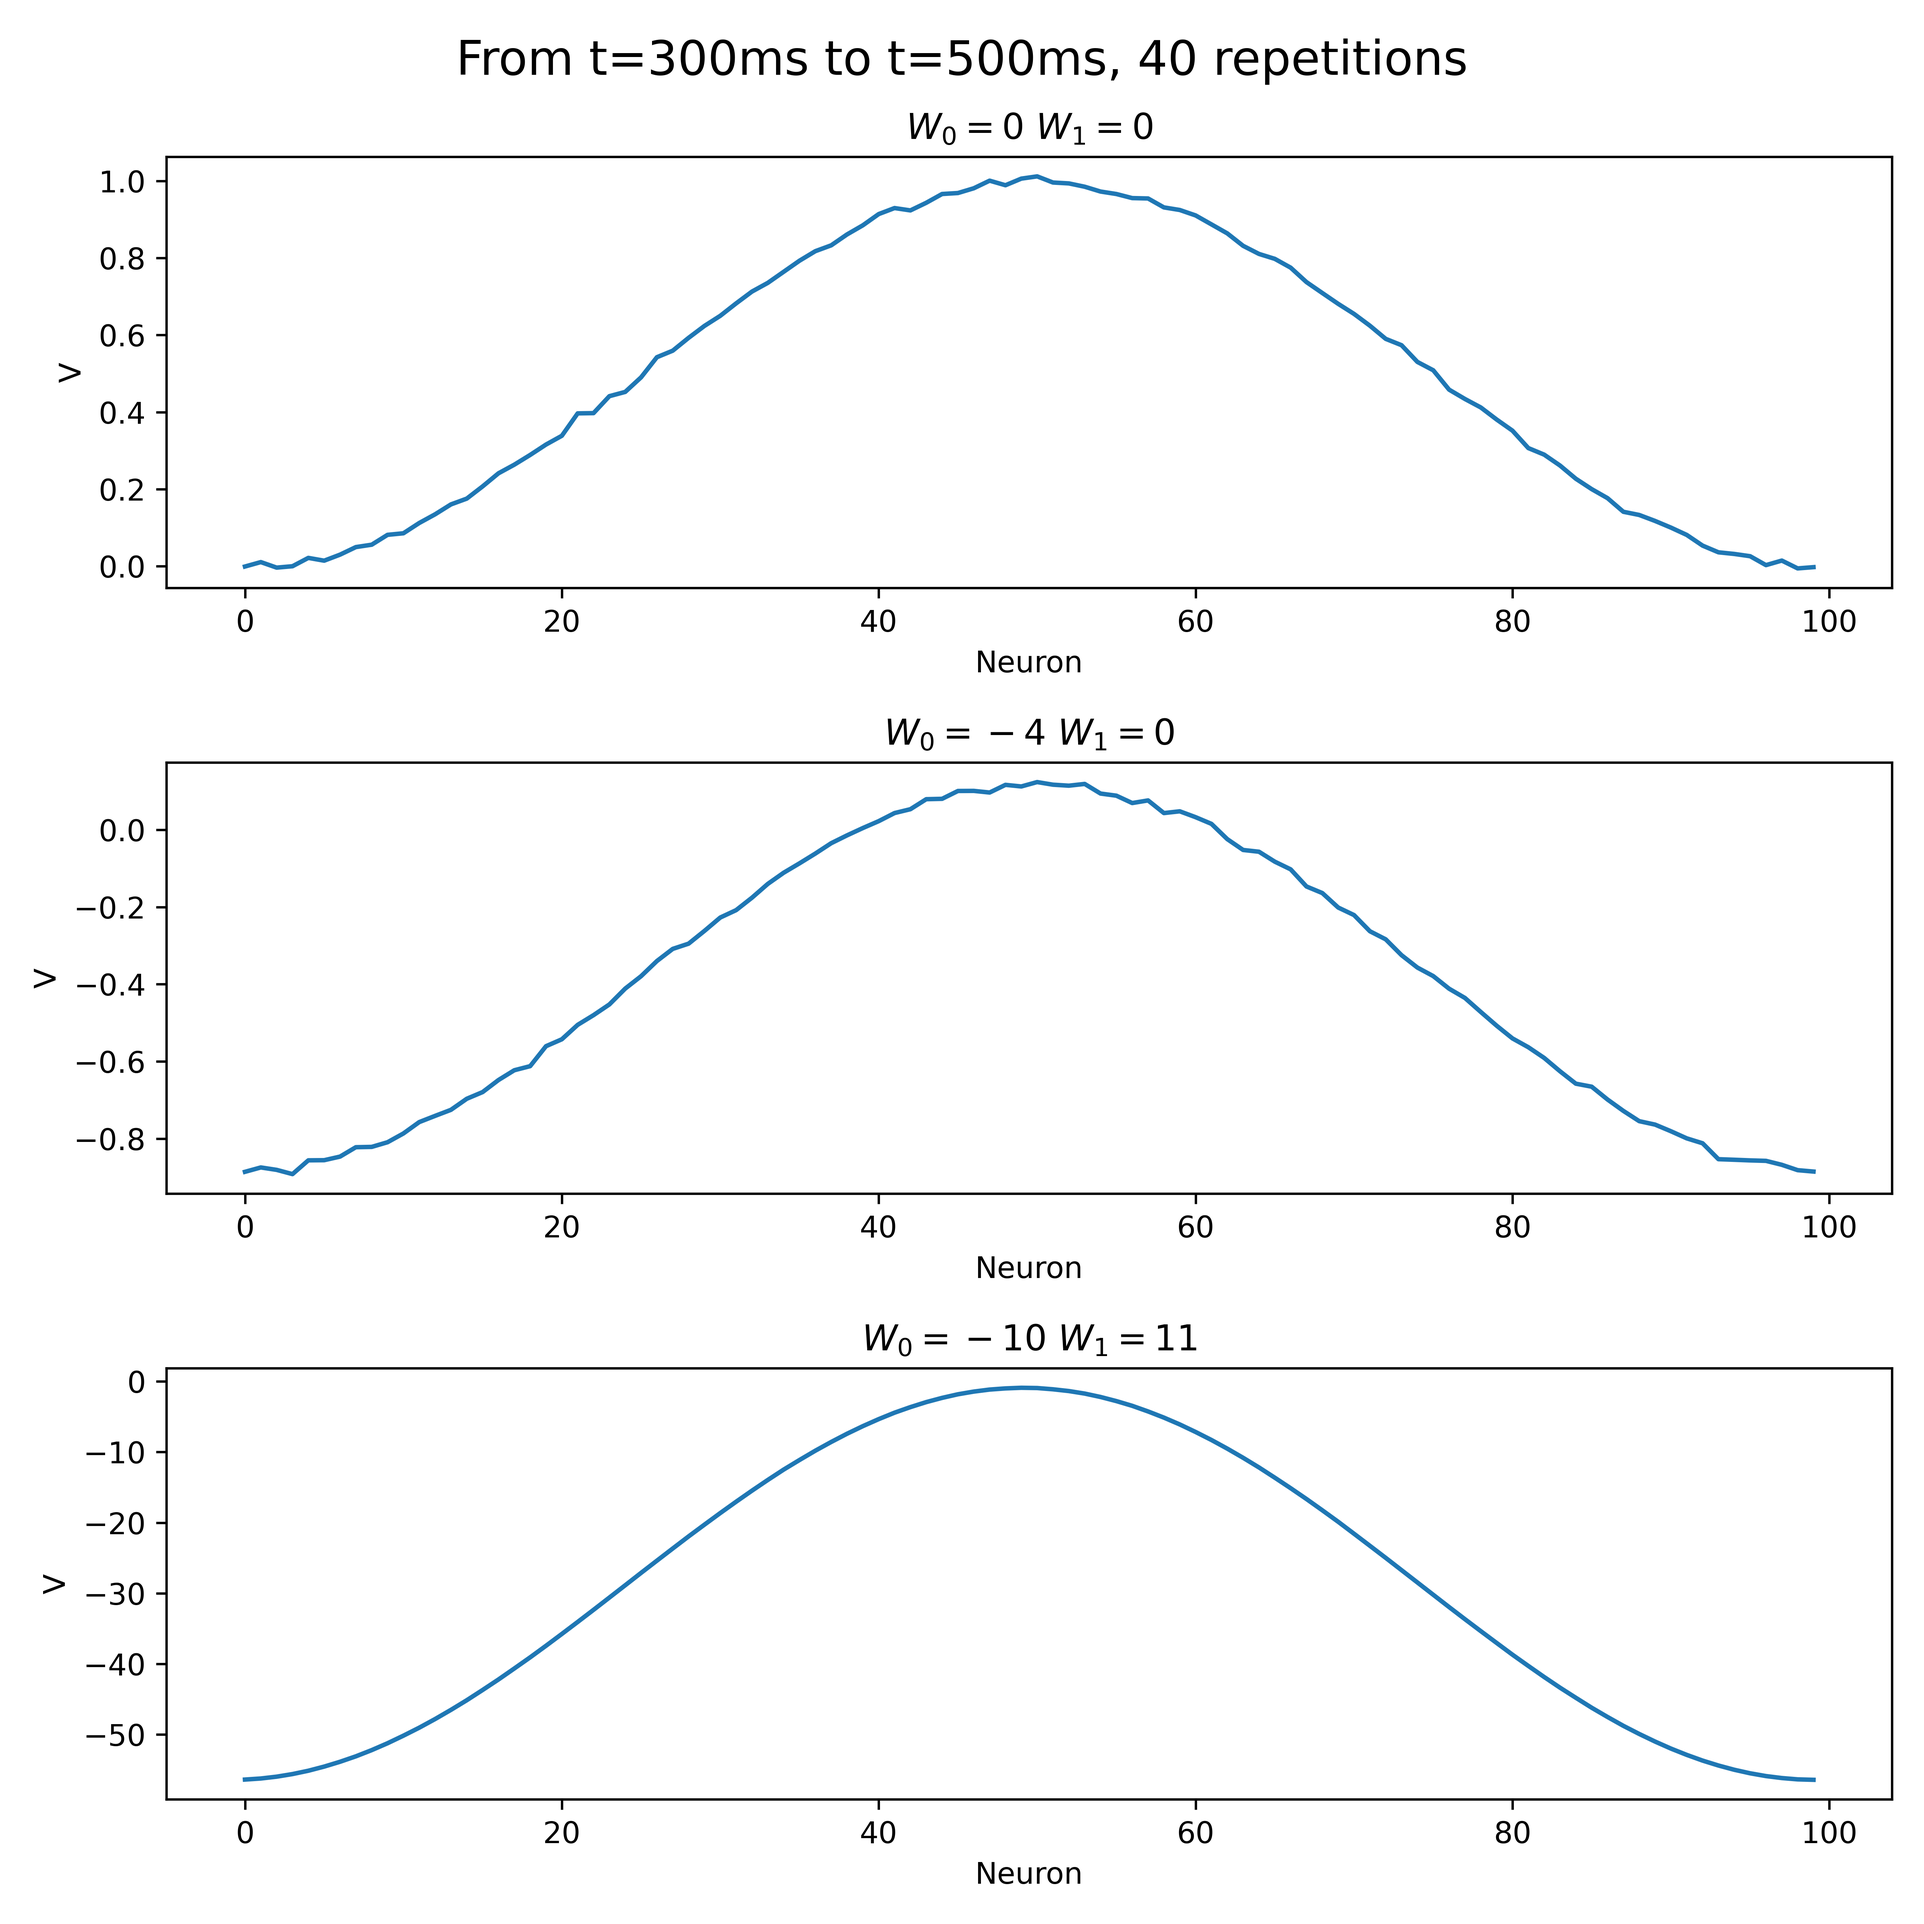
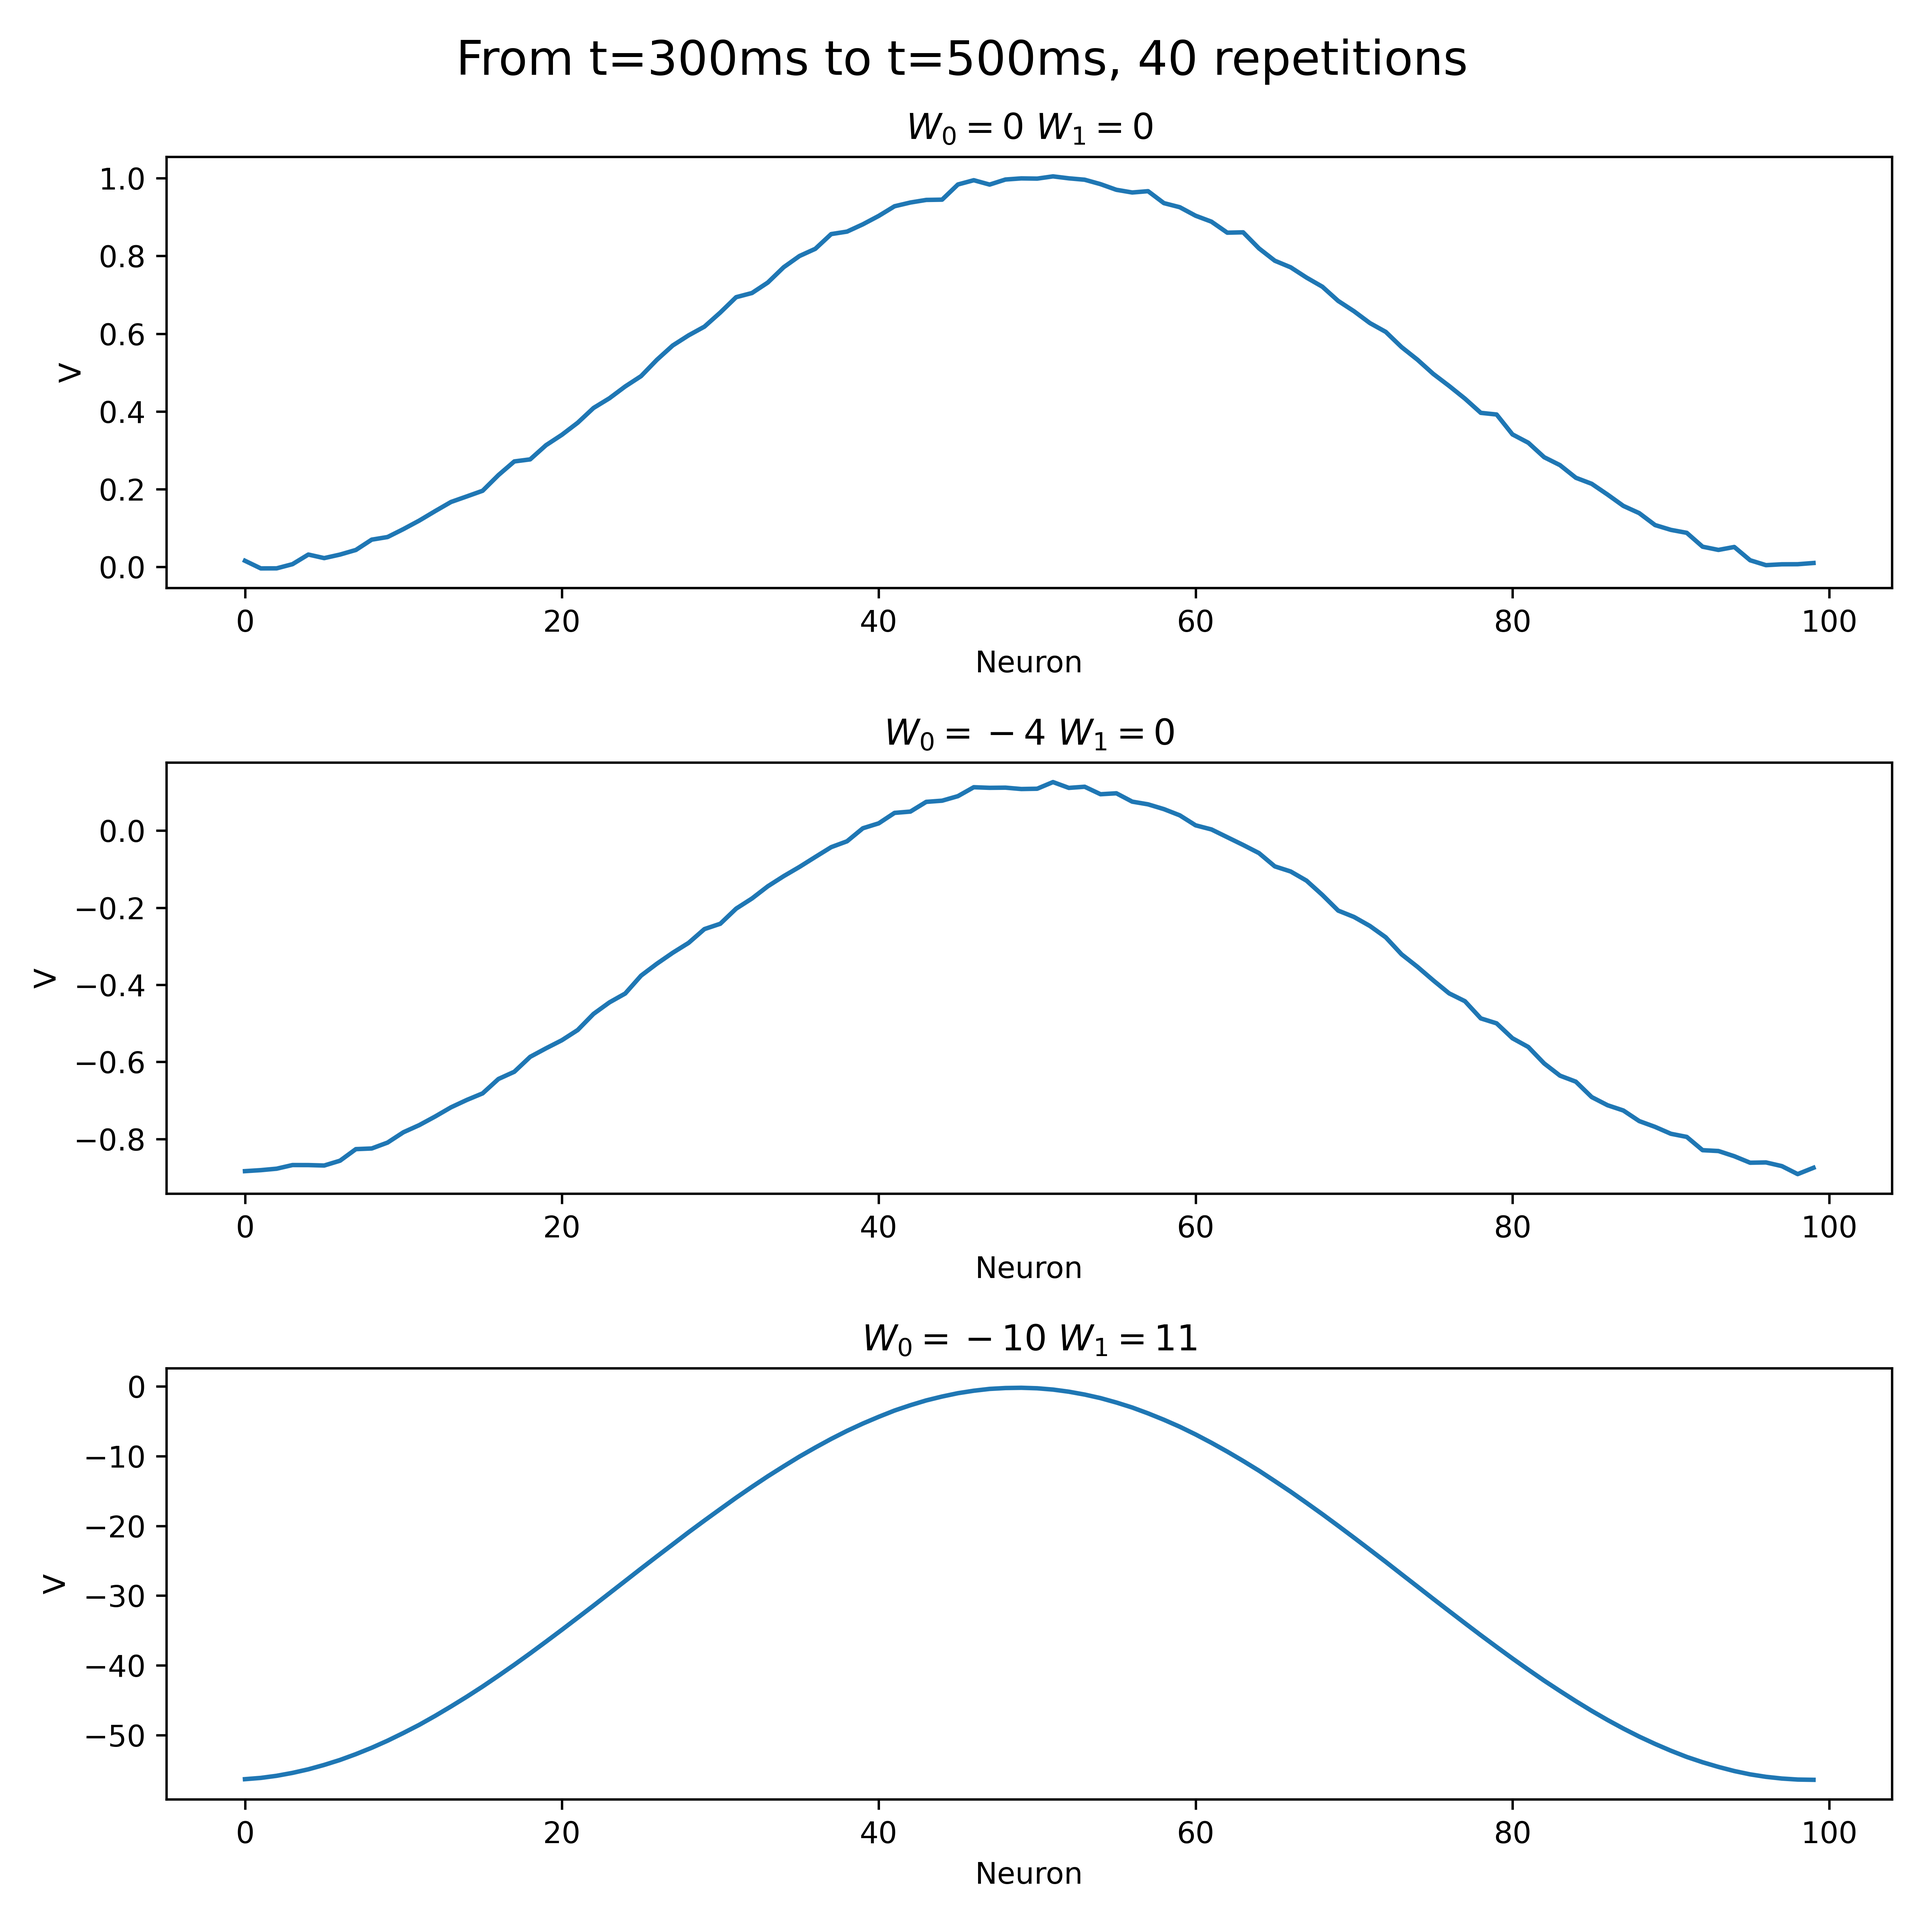
Updated ringNetwork to give counts

diff --git a/ringNetwork.py b/ringNetwork.py
@@ -5,31 +5,33 @@ from tqdm import trange
 class RingNetwork:
     def __init__(self, N, W0, W1):
         self.N = N
-        self.s = 2 * np.pi * np.linspace(0, 1, N+1)[:-1] - np.pi
+        self.s = np.linspace(-np.pi / 2, np.pi / 2, N+1)[:-1] 
 
         S = np.repeat(np.reshape(self.s, (N, 1)), N, axis=1)
-        self.W = W1 * np.cos(S - S.T) + W0
+        self.W = W1 * np.cos(2*(S - S.T)) + W0
 
     def simulate(self, s=0, dt=1, T=500, V0=0, tau=50, beta=0.1, sigma=0.1, u0=0.5, u1=0.5, seed=1, verbose=False):
         n_timesteps = int(T/dt + 0.5)
         np.random.seed(seed)
 
-        V = np.zeros((n_timesteps, self.N))
-        V[0,:] = V0
+        V = np.zeros((n_timesteps + 1, self.N))
+        N = np.zeros((n_timesteps + 1, self.N))
 
-        u = u0 + u1 * np.cos(s - self.s)
+        V[0,:] = V0
+        u = u0 + u1 * np.cos(2*(s - self.s))
 
         def act(x):
             return np.max(np.array([np.zeros(x.shape), x * beta]), axis=0)
 
-        for i in trange(1,n_timesteps, desc="Simulating...", disable=not verbose):
+        for i in trange(1,n_timesteps + 1, desc="Simulating...", disable=not verbose):
             v = V[i-1,:]
             q = np.random.normal(np.zeros(self.N), np.ones(self.N))
 
             n = np.random.poisson(act(v), v.shape)
+            N[i,:] = n
 
             dv_tdt = -v + self.W @ n + u + np.sqrt(tau / dt) * q * sigma
             V[i,:] = v + dt * dv_tdt / tau
 
-        return V
+        return V, N
 

diff --git a/tests/test_ringNetwork.py b/tests/test_ringNetwork.py
@@ -4,8 +4,8 @@ import numpy as np
 
 def test_s():
     rn = RingNetwork(100, 0, 0)
-    assert max(rn.s) < np.pi
-    assert min(rn.s) == -np.pi
+    assert max(rn.s) < np.pi / 2
+    assert min(rn.s) == -np.pi / 2
     assert len(rn.s) == rn.N
 
 def test_W():
@@ -16,8 +16,8 @@ def test_W():
 
         assert np.min(rn.W) >= W0 - W1
         assert np.max(rn.W) <= W0 + W1
-        assert rn.W[0,0] == W0 + W1 * np.cos(2 * rn.s[0])
-        assert rn.W[5,3] == W0 + W1 * np.cos(rn.s[5] - rn.s[3])
+        assert rn.W[0,0] == W0 + W1
+        assert rn.W[5,3] - (W0 + W1 * np.cos(rn.s[5] - rn.s[3])) < 1e-6
 
 def test_W0():
     for _ in range(100):
@@ -33,8 +33,8 @@ def test_W0():
 def test_sim():
     def t(N, dt, T):
         rn = RingNetwork(N, 0, 0)
-        V = rn.simulate(dt=dt, T=T)
-        assert V.shape == (int(T/dt + 0.5), N)
+        V, _ = rn.simulate(dt=dt, T=T)
+        assert V.shape == (int(T/dt + 1.5), N)
 
     for _ in range(100):
         N = np.random.randint(10, 100)

diff --git a/q2_tuning_curves.py b/q2_tuning_curves.py
@@ -16,7 +16,7 @@ n_runs = 40
 
 def simulate(W0, W1, ax):
     rn = RingNetwork(100, W0, W1)
-    Vs = np.array([rn.simulate(seed=random.randint(0,65536)) for _ in trange(n_runs)])
+    Vs = np.array([rn.simulate(seed=random.randint(0,65536))[0] for _ in trange(n_runs)])
 
     Va = np.mean(Vs, axis=0)
     V_tune = np.mean(Va[t:t+Dt, :], axis=0)

diff --git a/q1_heatmap.py b/q1_heatmap.py
@@ -8,7 +8,7 @@ fig.set_figwidth(9)
 
 def simulate(W0, W1, ax):
     rn = RingNetwork(100, W0, W1)
-    V = rn.simulate(verbose=True)
+    V, _ = rn.simulate(verbose=True)
 
     ax.imshow(V.T)
     ax.set_xlabel("Time (s)")
